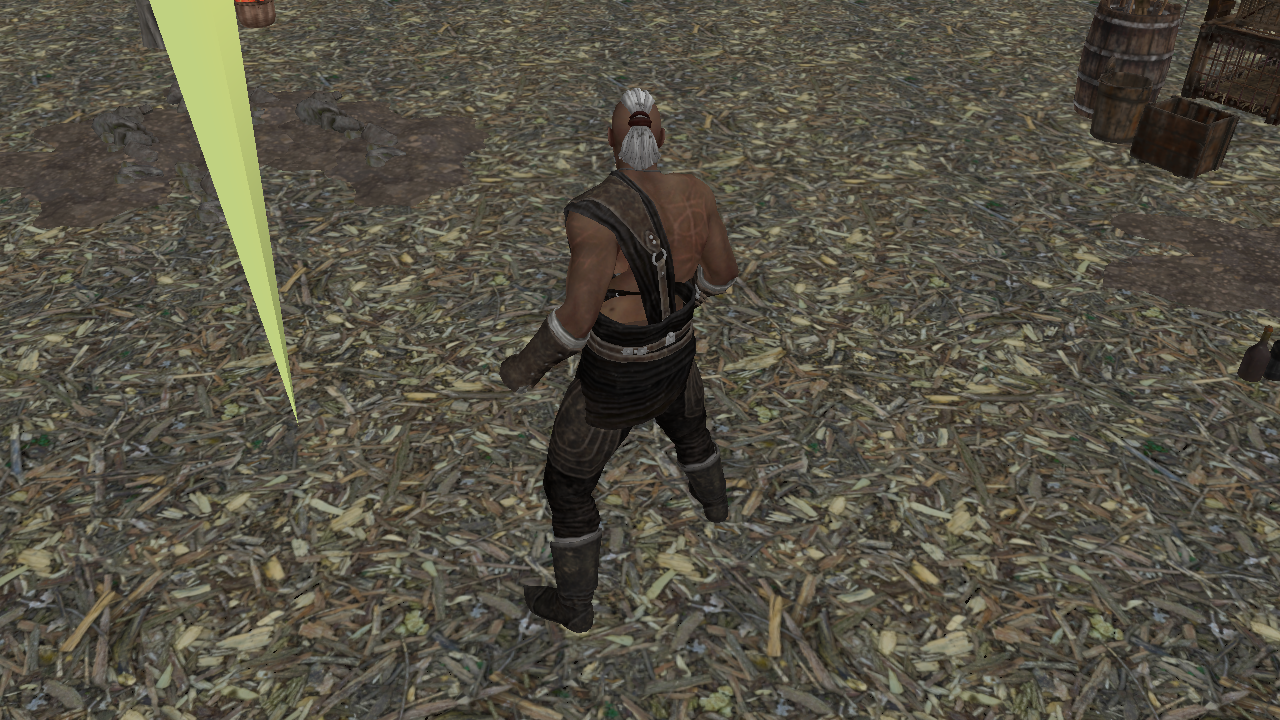
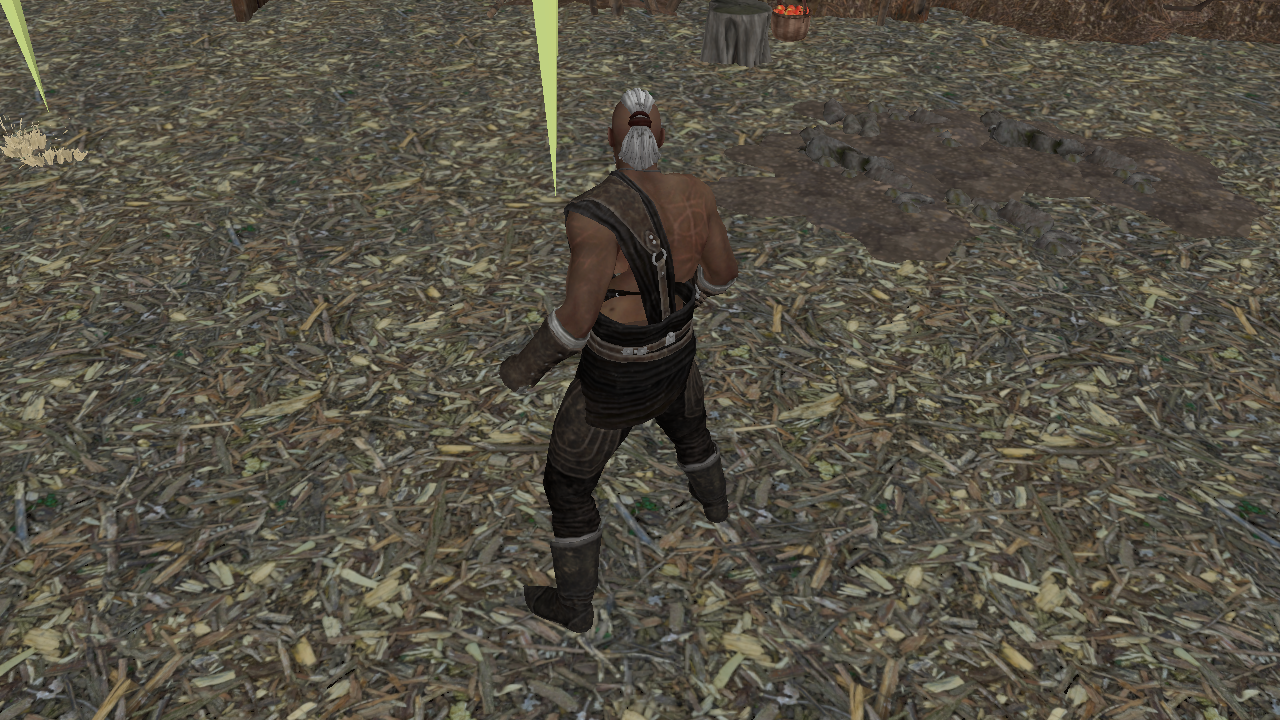
Enable real tile placement by default (POE2_NO_TILES disables); refresh Encampment screenshot
Claude-Session: https://claude.ai/code/session_01TagyNHdj8X43mA6X3goJmx

diff --git a/src/model.rs b/src/model.rs
@@ -209,8 +209,8 @@ fn load_room(idx: &Index, dir: &Path, path: &str) -> anyhow::Result<Mesh> {
     } else {
         let ground = AreaGround::load(idx, dir, path);
         // Slots that match a tile of the area get its real geometry; the rest get flat ground.
-        // Experimental: tile rotation/ground are unverified and it breaks the town, so opt in.
-        let tiles = if std::env::var_os("POE2_TILES").is_some() { area_tiles(idx, dir, path) } else { Vec::new() };
+        // Tile rotation and edge order are only checked by eye; POE2_NO_TILES falls back to flat ground.
+        let tiles = if std::env::var_os("POE2_NO_TILES").is_none() { area_tiles(idx, dir, path) } else { Vec::new() };
         let mut tile_cache: HashMap<String, Option<Mesh>> = HashMap::new();
         let mut flat = Vec::new();
         let mut tiled = 0;
